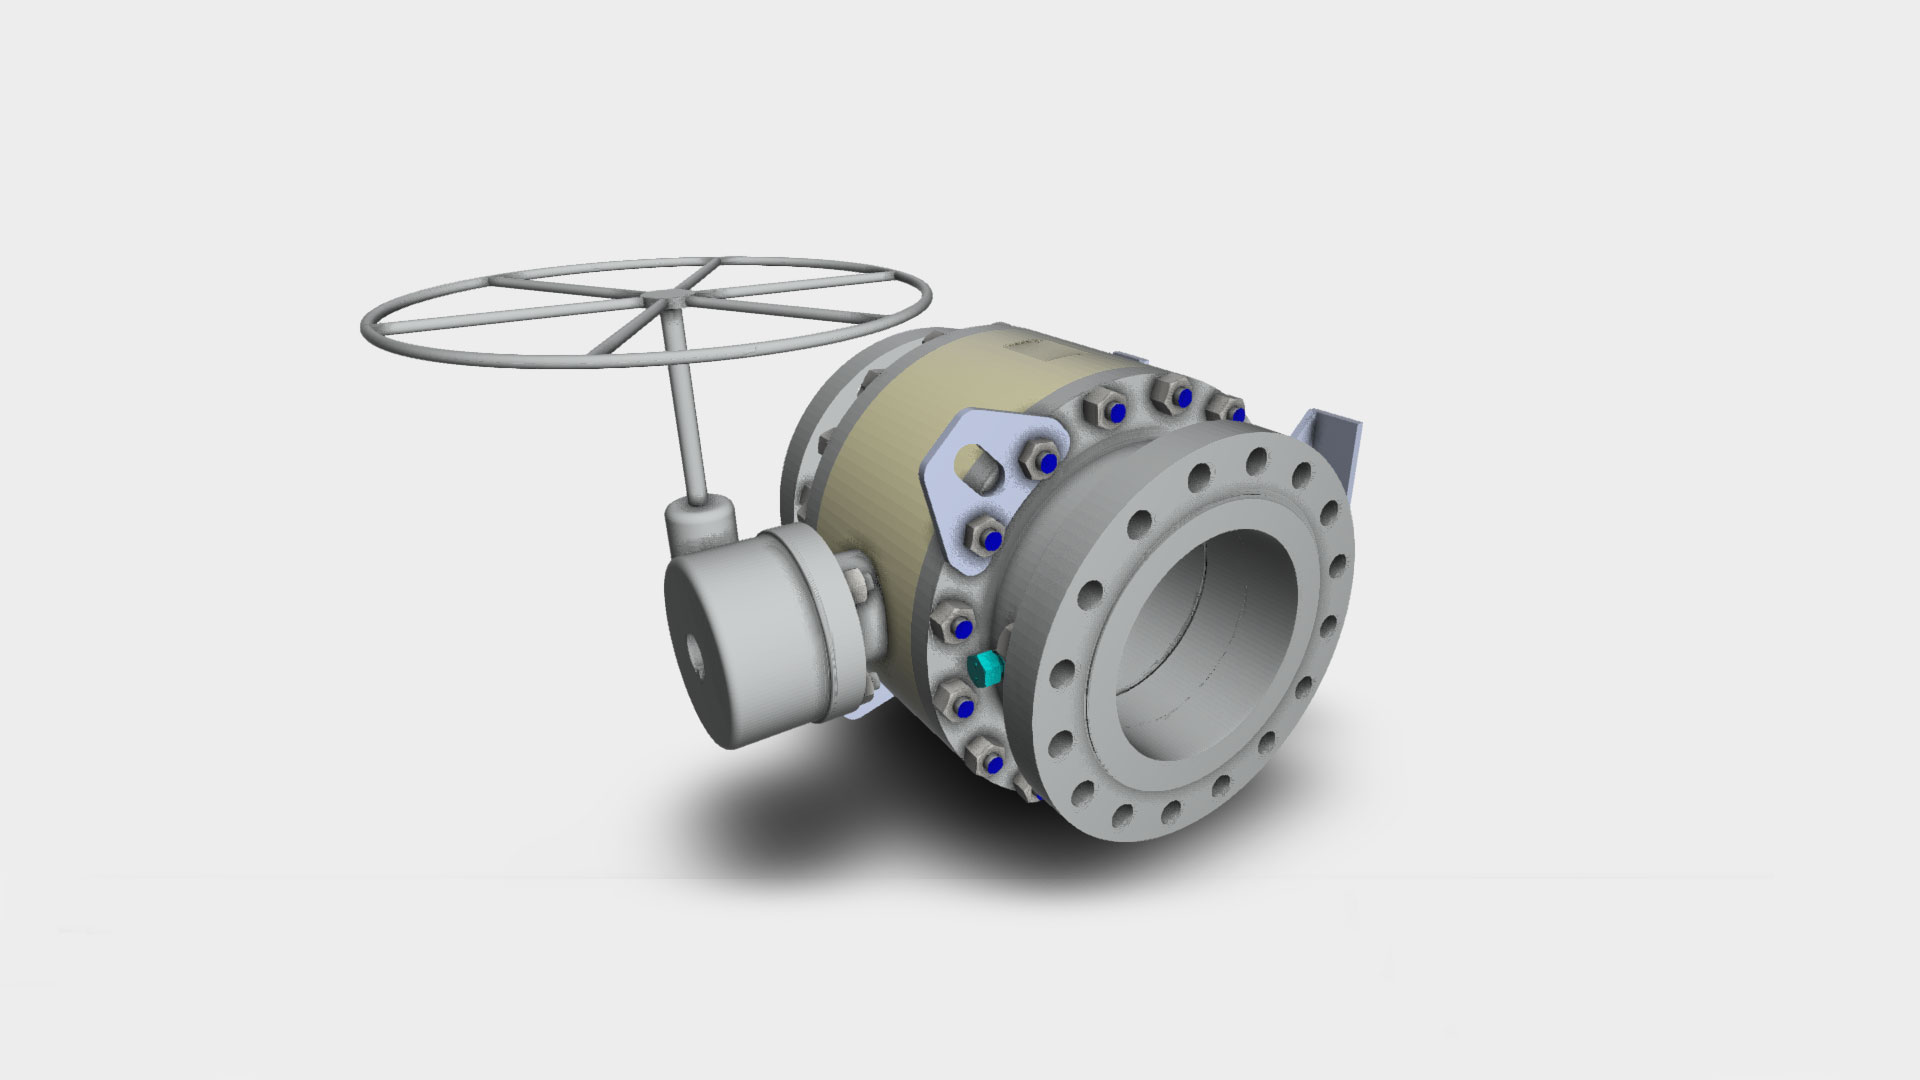
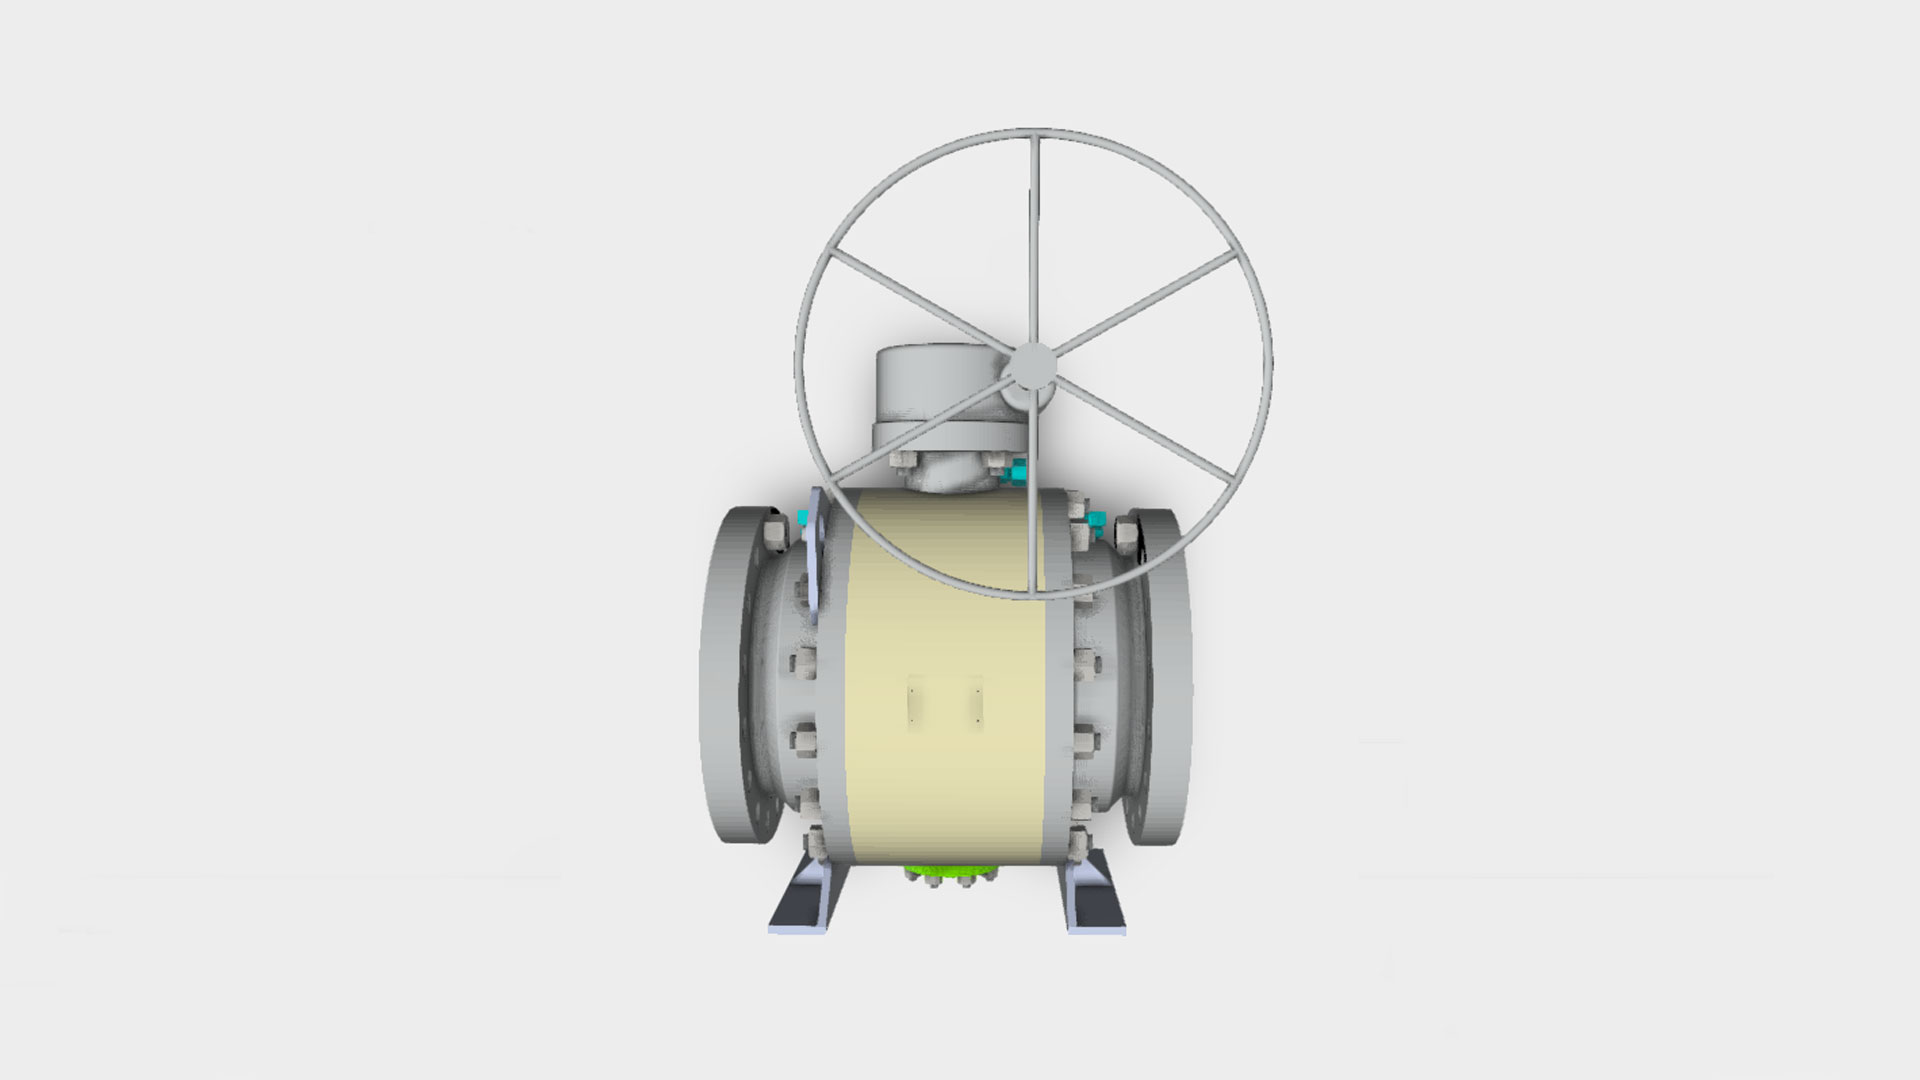
모델링 명칭, 방향, 메인 이미지 수정.

Changed region(s): [[0.1875, 0.0917, 0.7188, 0.8861], [0.5938, 0.1528, 0.625, 0.1833]]

diff --git a/src/components/pages/media/Modeling.tsx b/src/components/pages/media/Modeling.tsx
@@ -98,12 +98,12 @@ const Modeling: FC = () => {
     const [count, setCount] = useState<number>(0);
 
     const ModelingUrl = [
-        "300LB-24",
-        "DBB PLUG VALVE 150LB RF DN250A",  
+        "300LB TRUNNION BALL VALVE 24 inch",
+        "LUBRICATED PLUG VALVE 600LBS RF 20INCH",  
         "LUBRICATED PLUG VALVE 600LBS RTJ 18INCH",
-        "LUBRICATED PLUG VALVE 900LBS RTJ 2INCH",
-        "TRUNNION BALL VALVE 300LB 10INCH",
         "SLEEVED PLUG VALVE 150LB RF 2INCH",
+        "TRUNNION BALL VALVE 300LB 10INCH",
+        "DBB PLUG VALVE 150LB RF DN250A",
         // "DBB PLUG VALVE 150LB RF DN250A",
     ];
 
@@ -171,8 +171,10 @@ const Modeling: FC = () => {
                 <directionalLight position={[-30, 10, -40]} intensity={0.7} />
                 <directionalLight position={[50, -50, 30]} intensity={0.6} />
                 <directionalLight position={[-50, 50, -30]} intensity={0.6} />
-                <OrbitControls enableZoom={true} />
+                <OrbitControls enableZoom={true}/>
+                <group rotation={[Math.PI / 2, 1.55, 0]}>
                 <Model5 url={`/modeling/trunnion-ball-valve-300lb-10in.glb`} />
+                </group>
             </Canvas>
             <Canvas className={`model-canvas ${count === 5 ? "active" : ""}`}>
                 <ambientLight intensity={1} />
